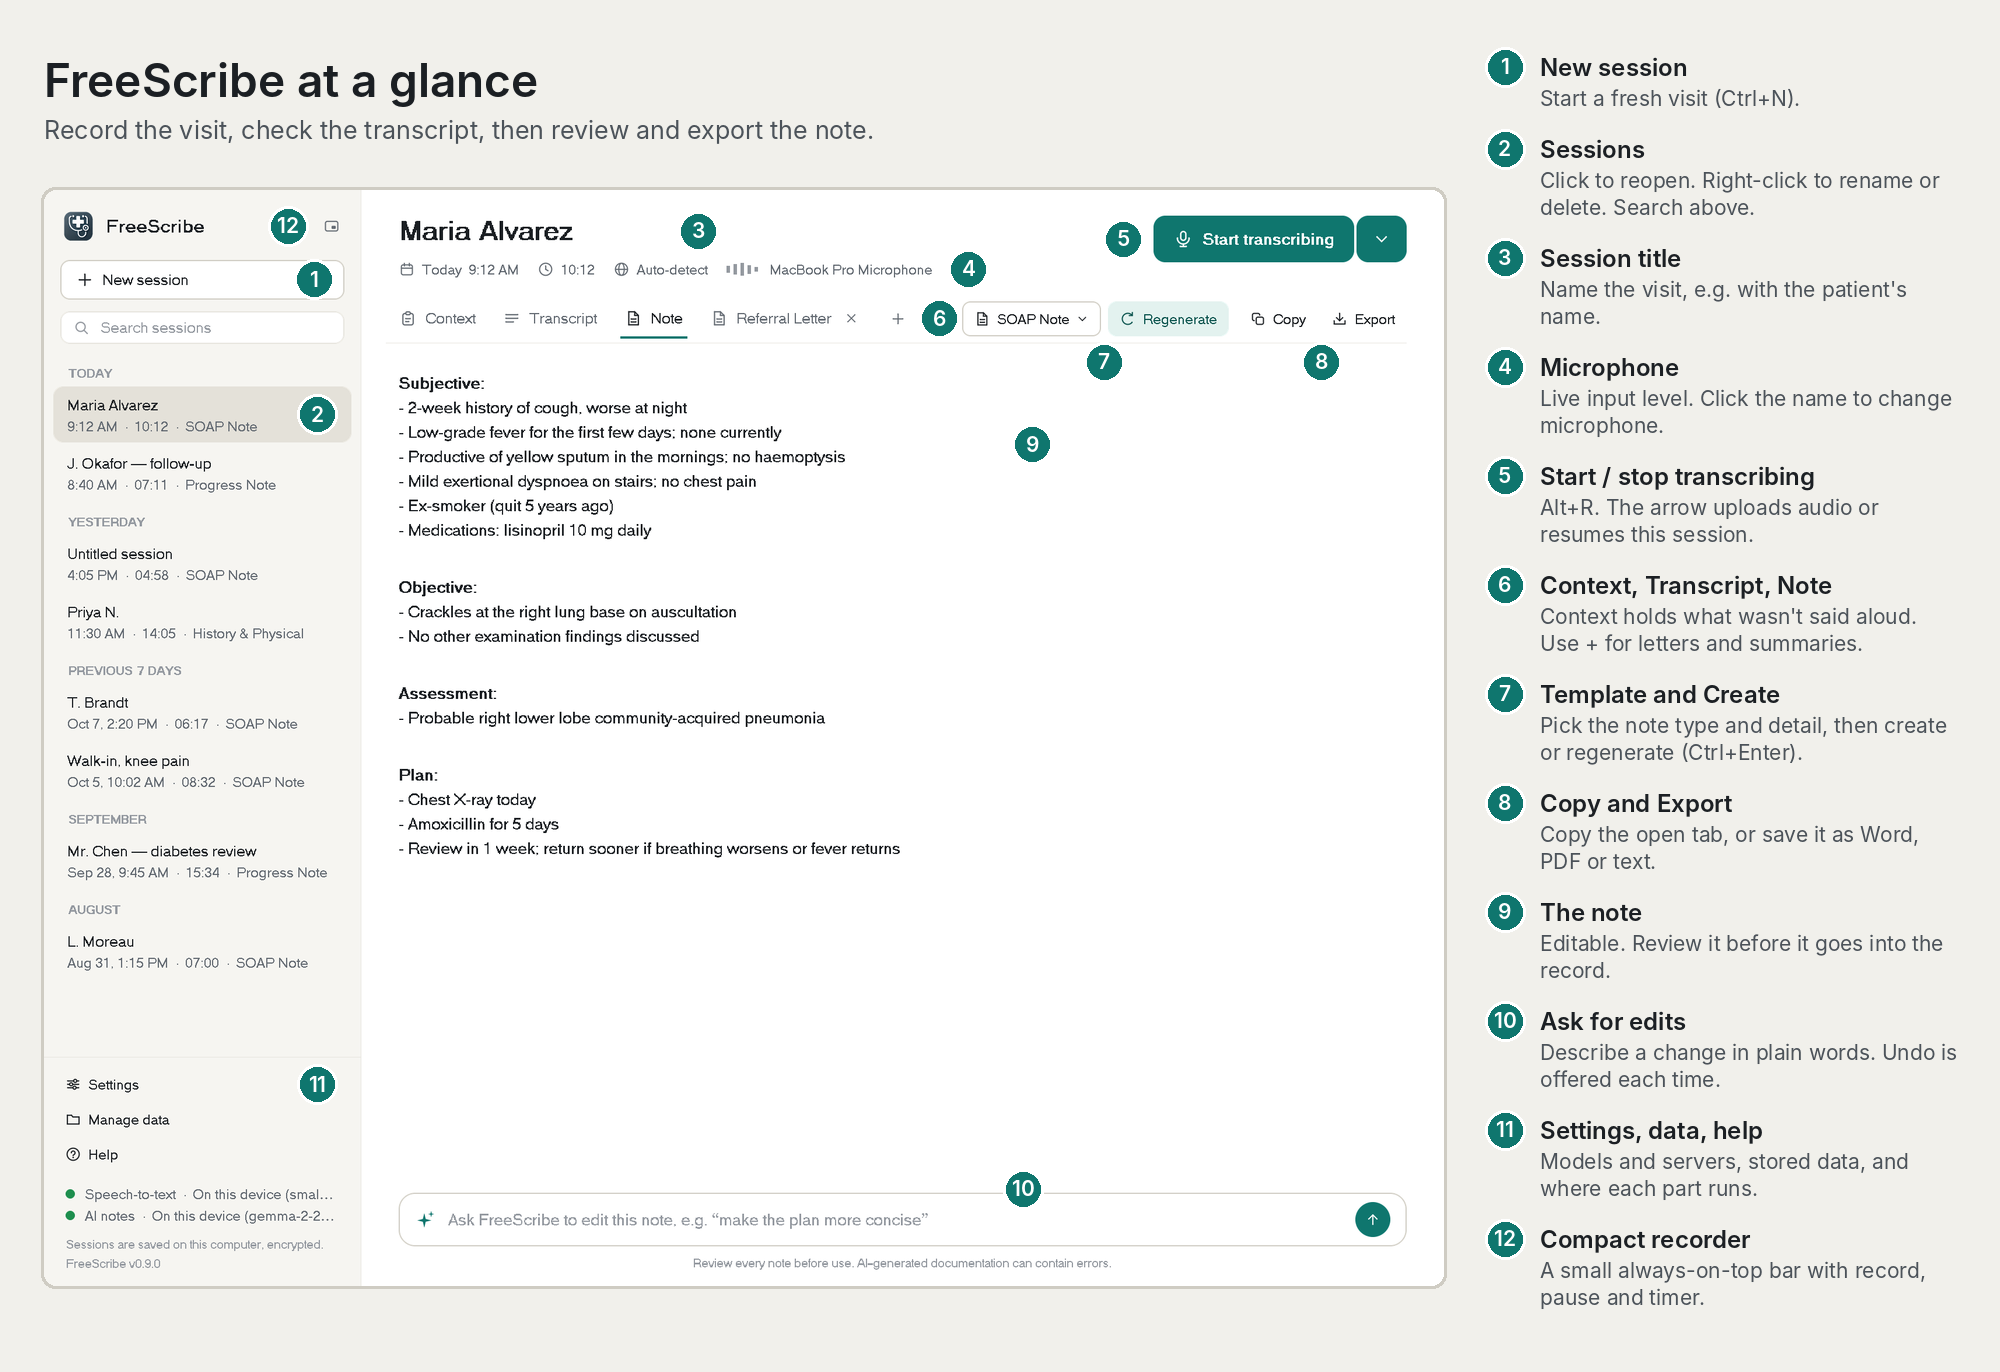
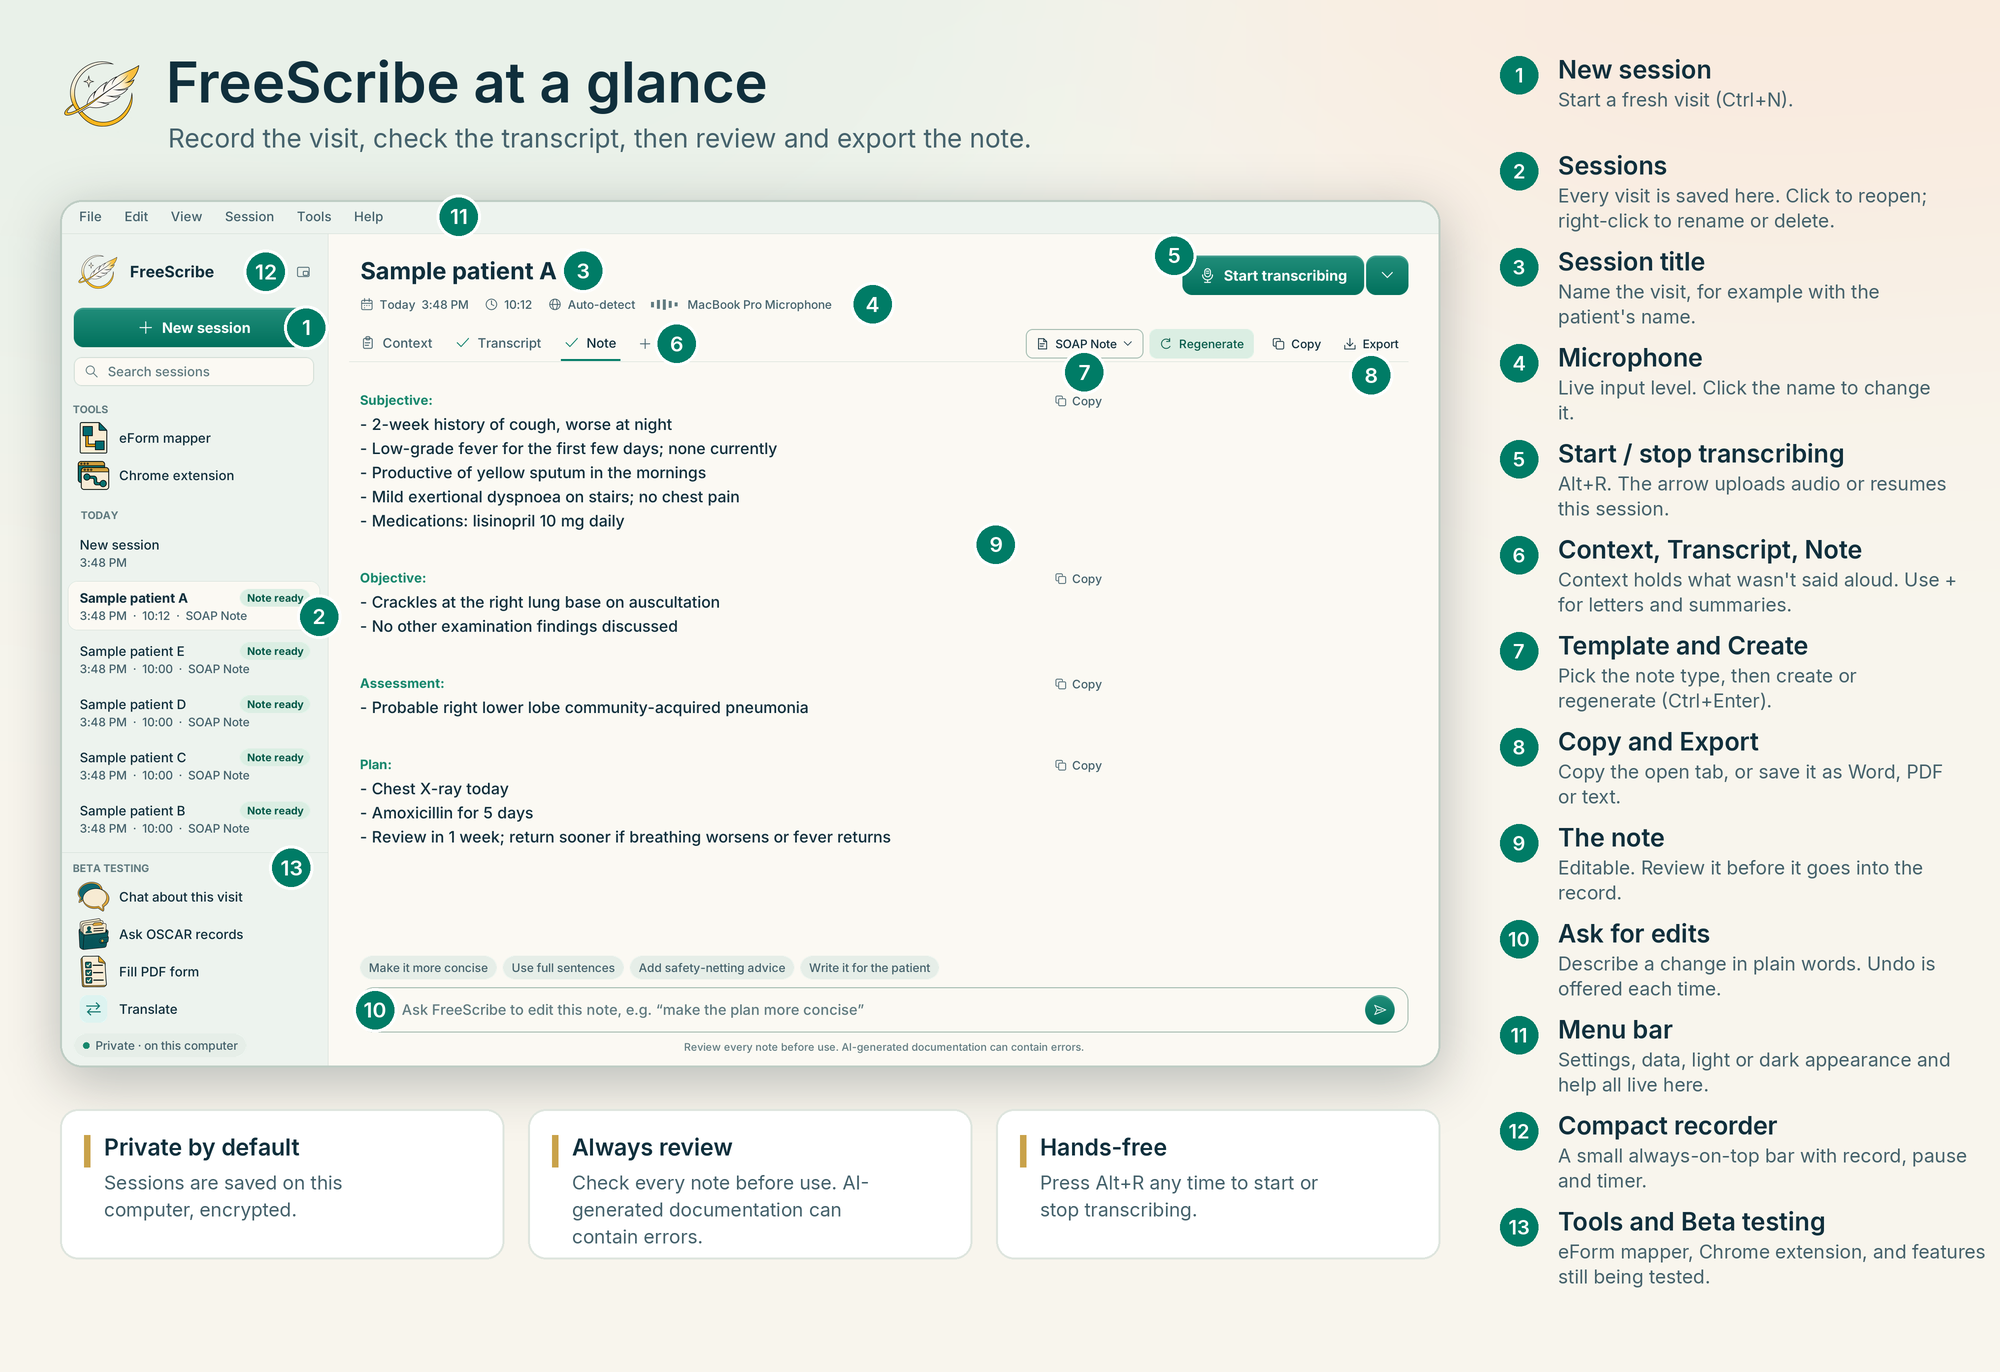
RC7: new welcome window, interface guide rebuilt from the new interface

diff --git a/src/FreeScribe.client/UI/WelcomeWindow.py b/src/FreeScribe.client/UI/WelcomeWindow.py
@@ -1,0 +1,123 @@
+"""
+WelcomeWindow.py
+
+The first window a clinician sees: a short, illustrated welcome with the four things FreeScribe does,
+a link to the quick tour and the interface guide, and the "don't show this again" choice.
+
+This software is released under the AGPL-3.0 license.
+"""
+
+import tkinter as tk
+import webbrowser
+
+import UI.Helpers
+from UI.Art import Artwork
+from UI.ImageWindow import ImageWindow
+from UI.Icons import icon
+from UI.QuickTour import show_tour
+from UI.Theme import Theme, Palette
+from UI.Widgets.Controls import Button, RoundedFrame
+from utils.file_utils import get_file_path
+from utils.utils import get_application_version
+
+DISCORD_URL = "https://discord.gg/3JamHuHxvD"
+
+FEATURES = (
+    ("mic", "Record the visit", "Start transcribing, upload audio or paste a transcript."),
+    ("doc", "A note in your format", "SOAP, H&P, progress notes, letters and your own templates."),
+    ("sparkle", "Ask for edits", "Describe a change in plain words. Undo it if you change your mind."),
+    ("download", "Take it with you", "Copy the note, or save it as a Word, PDF or text file."),
+)
+
+
+class WelcomeWindow:
+    """:param callback: called with True when "Don't show this again" is ticked as the window closes"""
+
+    def __init__(self, parent, callback=None):
+        self.parent = parent
+        self.callback = callback
+        self.window = tk.Toplevel(parent, bg=Palette.BG)
+        self.window.title("Welcome to FreeScribe")
+        UI.Helpers.set_window_icon(self.window)
+        self.window.minsize(Theme.px(640), Theme.px(600))
+        width, height = Theme.px(760), Theme.px(700)
+        x = parent.winfo_rootx() + max(0, (parent.winfo_width() - width) // 2)
+        y = parent.winfo_rooty() + max(0, (parent.winfo_height() - height) // 3)
+        self.window.geometry(f"{width}x{height}+{x}+{y}")
+        self.window.transient(parent)
+        self.dont_show = tk.BooleanVar(value=False)
+        self._build()
+        self.window.protocol("WM_DELETE_WINDOW", self._close)
+        self.window.bind("<Escape>", lambda e: self._close())
+        self.window.focus_set()
+
+    def _build(self):
+        w = self.window
+        # footer first, so it is never pushed off the bottom
+        footer = tk.Frame(w, bg=Palette.SIDEBAR)
+        footer.pack(side="bottom", fill="x")
+        tk.Frame(footer, bg=Palette.BORDER, height=1).pack(fill="x")
+        row = tk.Frame(footer, bg=Palette.SIDEBAR)
+        row.pack(fill="x", padx=Theme.px(28), pady=Theme.px(14))
+        tk.Checkbutton(row, text="Don't show this again", variable=self.dont_show, bg=Palette.SIDEBAR,
+                       fg=Palette.TEXT_MUTED, activebackground=Palette.SIDEBAR, selectcolor=Palette.BG,
+                       font=Theme.font("small"), highlightthickness=0, bd=0, cursor="hand2", padx=Theme.px(4)).pack(side="left")
+        tk.Label(row, text=f"Version {get_application_version()}", bg=Palette.SIDEBAR, fg=Palette.TEXT_FAINT,
+                 font=Theme.font("micro")).pack(side="right")
+
+        Artwork(w, "hero-start", height=210, themed=True, cover=True, fade=True).pack(fill="x")
+
+        body = tk.Frame(w, bg=Palette.BG)
+        body.pack(fill="both", expand=True, padx=Theme.px(36))
+        tk.Label(body, text="Welcome to FreeScribe", bg=Palette.BG, fg=Palette.TEXT,
+                 font=Theme.font("display", "semibold")).pack(anchor="w", pady=(Theme.px(14), 0))
+        tk.Label(body, text="An AI medical scribe that listens to the visit and writes the note, "
+                            "on your computer.", bg=Palette.BG, fg=Palette.TEXT_MUTED, font=Theme.font("medium"),
+                 justify="left", wraplength=Theme.px(680)).pack(anchor="w", pady=(Theme.px(4), Theme.px(16)))
+
+        grid = tk.Frame(body, bg=Palette.BG)
+        grid.pack(fill="x")
+        for column in (0, 1):
+            grid.grid_columnconfigure(column, weight=1, uniform="cards")
+        self._icons = []
+        for index, (name, title, text) in enumerate(FEATURES):
+            card = RoundedFrame(grid, fill=Palette.SURFACE, outline=Palette.BORDER, radius=12, padx=2, pady=2)
+            card.grid(row=index // 2, column=index % 2, sticky="nsew", padx=(0, Theme.px(10)) if index % 2 == 0 else 0,
+                      pady=(0, Theme.px(10)))
+            inner = card.body if hasattr(card, "body") else card
+            picture = icon(name, 22, self._accent())
+            self._icons.append(picture)
+            tk.Label(inner, image=picture, bg=Palette.SURFACE).grid(row=0, column=0, rowspan=2, padx=(Theme.px(14), Theme.px(10)),
+                                                                    pady=Theme.px(12), sticky="n")
+            tk.Label(inner, text=title, bg=Palette.SURFACE, fg=Palette.TEXT, font=Theme.font("medium", "semibold"),
+                     anchor="w").grid(row=0, column=1, sticky="w", pady=(Theme.px(12), 0))
+            tk.Label(inner, text=text, bg=Palette.SURFACE, fg=Palette.TEXT_MUTED, font=Theme.font("small"),
+                     justify="left", anchor="w", wraplength=Theme.px(255)).grid(row=1, column=1, sticky="w",
+                                                                                 padx=(0, Theme.px(12)), pady=(0, Theme.px(12)))
+            inner.grid_columnconfigure(1, weight=1)
+
+        actions = tk.Frame(body, bg=Palette.BG)
+        actions.pack(fill="x", pady=(Theme.px(8), 0))
+        Button(actions, text="Get started", variant="primary", size="lg", command=self._close).pack(side="right")
+        Button(actions, text="Take the quick tour", variant="secondary", size="lg", icon_name="sparkle",
+               command=lambda: show_tour(self.parent)).pack(side="right", padx=(0, Theme.px(10)))
+        Button(actions, text="Interface guide", variant="ghost", size="lg", command=self._guide).pack(side="left")
+
+        link = tk.Label(body, text="Questions or ideas? Join the community on Discord", bg=Palette.BG,
+                        fg=self._accent(), font=Theme.font("small", "medium"), cursor="hand2")
+        link.pack(anchor="w", pady=(Theme.px(14), 0))
+        link.bind("<Button-1>", lambda e: webbrowser.open(DISCORD_URL))
+
+    @staticmethod
+    def _accent():
+        """Teal for icons and links, lighter on the dark background so it stays readable."""
+        return Palette.PRIMARY if Theme.mode == "light" else Palette.MINT
+
+    def _guide(self):
+        guide = ImageWindow(self.parent, "Interface guide", get_file_path("assets", "help.png"), width=1250, height=858)
+        guide.window.lift()
+
+    def _close(self):
+        if self.callback:
+            self.callback(self.dont_show.get())
+        self.window.destroy()

diff --git a/src/FreeScribe.client/UI/MainWindowUI.py b/src/FreeScribe.client/UI/MainWindowUI.py
@@ -326,7 +326,12 @@ class MainWindowUI:
         Display a welcome message when the application is launched.
         This method shows a welcome message in a message box when the application is launched.
         """
-        self._show_md_content(get_file_path('markdown','welcome.md'), 'Welcome', True)
+        def on_close(checkbox_state):
+            self.setting_window.settings.editable_settings['Show Welcome Message'] = not checkbox_state
+            self.setting_window.settings.save_settings_to_file()
+
+        from UI.WelcomeWindow import WelcomeWindow
+        WelcomeWindow(self.root, callback=on_close)
     
 
     def _background_availbility_docker_check(self):

diff --git a/tests/ui/test_workspace.py b/tests/ui/test_workspace.py
@@ -771,3 +771,13 @@ def test_menu_bar_is_drawn_inside_the_window(workspace):
     bar.close()
     workspace.root.update()
     assert bar.popup is None and bar.open_title is None
+
+
+def test_welcome_window_reports_the_dont_show_choice(workspace):
+    from UI.WelcomeWindow import WelcomeWindow
+    seen = []
+    welcome = WelcomeWindow(workspace.root, callback=seen.append)
+    workspace.root.update()
+    welcome.dont_show.set(True)
+    welcome._close()
+    assert seen == [True]
